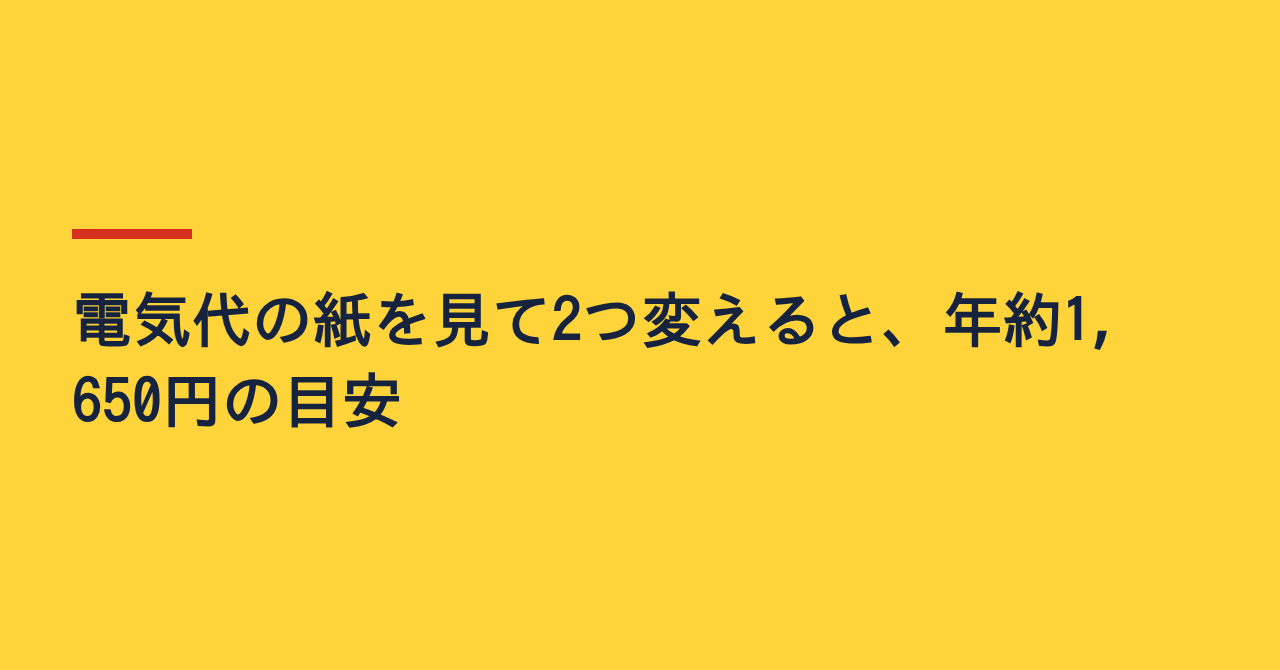
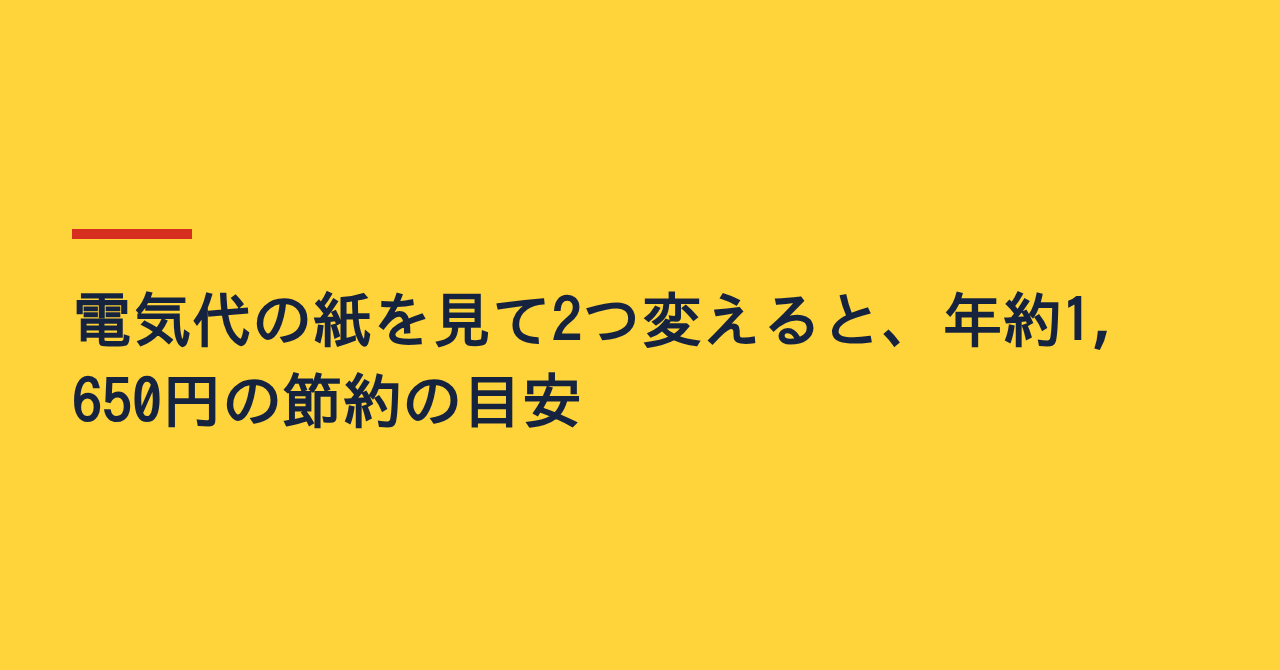
2026-11-02_001: title with 節約, covers/SNS updated
Claude-Session: https://claude.ai/code/session_019jxzMkHZEL8EPC28xkVZW1

Changed region(s): [[0.2188, 0.5373, 0.4688, 0.6567]]

diff --git a/runs/2026-11-02_001/06_sns.md b/runs/2026-11-02_001/06_sns.md
@@ -1,6 +1,6 @@
-# SNS投稿案: 電気代の紙を見て2つ変えると、年約1,650円の目安
+# SNS投稿案: 電気代の紙を見て2つ変えると、年約1,650円の節約の目安
 ## X投稿案
-- 「電気代の紙を見て2つ変えると、年約1,650円の目安」という記事を書きました。例えば(架空の例)冷房を1℃ゆるめ、白熱電球を1日1時間減らした場合の試算です。目安で、下がる保証ではありません。【記事URL】
+- 「電気代の紙を見て2つ変えると、年約1,650円の節約の目安」という記事を書きました。例えば(架空の例)冷房を1℃ゆるめ、白熱電球を1日1時間減らした場合の試算です。目安で、下がる保証ではありません。【記事URL】
 - 電気代の紙の「使用量」が1kWh減ると、約33円動く目安です。環境省の調査(令和4年度)の年13.2万円÷3,950kWhを、こちらで割り算した数字。実際の額とはずれます。【記事URL】
 - 冷房の設定を27℃から28℃に上げると、年30.2kWhの削減(環境省のページの条件での数字)。33円をかけて約1,000円。夏の話なので、来年の夏の目安です。保証ではありません。【記事URL】
 - 照明を1日1時間減らすと、白熱電球で年19.71kWh(環境省)。33円で計算すると約650円。白熱電球を使っていない家では、これより小さくなります。金額は目安です。【記事URL】
@@ -28,7 +28,7 @@
 
 ## Instagram投稿案
 カルーセル案(全7枚)
-- 1枚目: 電気代の紙を見て2つ変えると、年約1,650円の目安 / 金額は目安です。下がる保証ではありません
+- 1枚目: 電気代の紙を見て2つ変えると、年約1,650円の節約の目安 / 金額は目安です。下がる保証ではありません
 - 2枚目: 毎月届く電気代の紙 / 合計金額だけ見て、そっと閉じる。そんな人もいると思います
 - 3枚目: 見る場所は3つ / 使用期間 ・ 使用量 ・ ほかの行と契約欄
 - 4枚目: ものさしは「1kWh=約33円」 / 環境省(令和4年度)の年13.2万円 ÷ 3,950kWh。全国平均から割り算した目安です
@@ -61,7 +61,7 @@ noteでは、次のことも書いています。
 
 ## 告知ポスト(週次企画用。X・Threads共通)
 - 投稿当日用: 電気代の紙の「使用量」を、数字つきで一緒に見ていく記事を公開しました。「電気代の紙を見て2つ変えると、年約1,650円の目安」。金額は目安で、保証ではありません。【記事URL】
-- 2日後のリマインド用: 先日公開した「電気代の紙を見て2つ変えると、年約1,650円の目安」。次に紙が届いたら、使用期間と使用量の2か所だけでも見てみてください。金額は目安です。【記事URL】
+- 2日後のリマインド用: 先日公開した「電気代の紙を見て2つ変えると、年約1,650円の節約の目安」。次に紙が届いたら、使用期間と使用量の2か所だけでも見てみてください。金額は目安です。【記事URL】
 
 ## 確認メモ
 - 使った数字は、記事にあるものだけです(環境省の年間3,950kWh・13.2万円、そこから割り算した約33円/kWh、冷房1℃の年30.2kWh=約1,000円、白熱電球1時間の年19.71kWh=約650円、合計年約1,650円・月約140円、待機電力約5%)。「(要確認)」の数字は記事にありません。

diff --git a/runs/2026-11-02_001/author_notes.md b/runs/2026-11-02_001/author_notes.md
@@ -28,3 +28,6 @@
 
 ## 旧版
 - 旧版は history/round_1/ に残してある。
+
+## 2026-11-04 タイトル決定(持ち主)
+- 持ち主が『年で1700円以上も節約』を希望したが、記事の計算は約1,650円(1,700円に届かない)ので、事実に合わせた『電気代の紙を見て2つ変えると、年約1,650円の節約の目安』(26字)を提案し、持ち主が『OK』と返事。

diff --git a/runs/2026-11-02_001/05_revised.md b/runs/2026-11-02_001/05_revised.md
@@ -1,4 +1,4 @@
-# 電気代の紙を見て2つ変えると、年約1,650円の目安
+# 電気代の紙を見て2つ変えると、年約1,650円の節約の目安
 
 【画像:cover.png】
 
